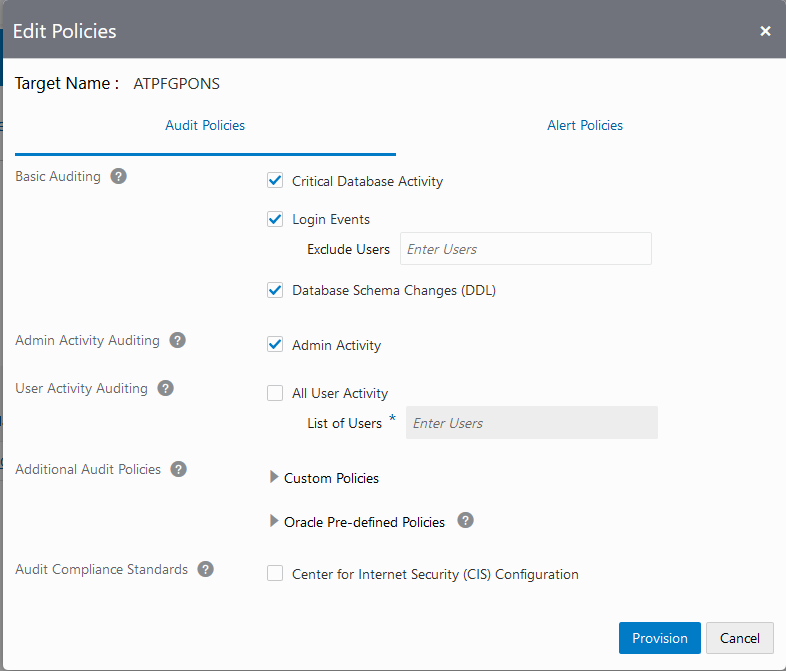
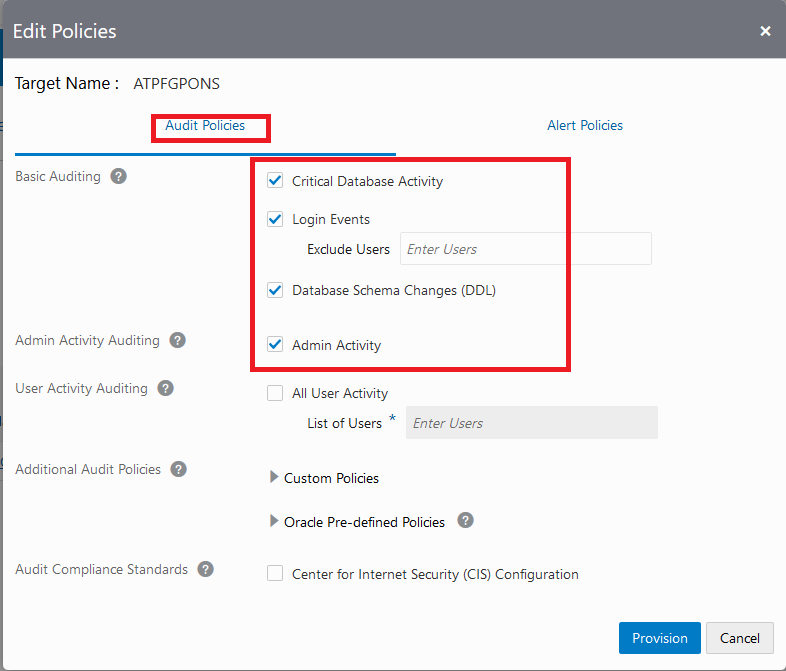
Lab3

Changed region(s): [[0.1832, 0.149, 0.7328, 0.5663]]

diff --git a/lab300/content.md b/lab300/content.md
@@ -20,6 +20,108 @@ To complete this lab, you need to have the following:
 * The ATP-S instance provisioned in Lab 1
 * The access privileges configured in Lab 2
 
+## STEP 1: Provision audit and alert policies on a target database by using the Activity Auditing wizard
+
+In the Oracle Data Safe Console, click the **Home** tab, and then click the **Activity Auditing** tab.
+
+![alt text](./images/img01.png " ")
+
+On the **Select Targets for Auditing** page, select the check box for your target database, and then click Continue.
+
+![alt text](./images/img02.png " ")
+
+On the **Retrieve Audit Policies** page, select the check box for your target database, and then click **Retrieve** to retrieve the audit policies for your database. Wait until a green check mark is displayed in the Retrieval Status column, and then click **Continue**.
+
+![alt text](./images/img03.png " ")
+
+The check mark means that all of the audit policies are successfully retrieved.
+
+![alt text](./images/img04.png " ")
+
+On the **Review and Provision Audit and Alert Policies** page, review the types of audit policies already enabled on your target database, and then click your target database name to provision more policies.
+
+The check marks under **Additional Policies** means that the Autonomous Transaction Processing (ATP) database has predefined audit policies enabled.
+
+Currently, there are no basic, admin activity, or user activity audit policies provisioned on your database, nor are there any alert policies.
+
+Click on the name of your database to open the Edit Policies dialog box.
+
+![alt text](./images/img05.png " ")
+
+On the **Audit Policies** tab in the Edit Policies dialog box, notice that the following Basic Auditing and Admin Activity Auditing policies are selected by default. Oracle recommends that you provision these policies. They are not provisioned by default.
+
+*	Critical Database Activity
+*	Login Events
+*	Database Schema Changes (DDL)
+*	Admin Activity
+
+![alt text](./images/img06.png " ")
+
+Expand Oracle Pre-defined Policies to view the list of Oracle predefined audit policies available on your ATP database. By default, the following policies are provisioned:
+
+![alt text](./images/img07.png " ")
+
+Provision additional policies
+
+![alt text](./images/img08.png " ")
+
+Notice that the Center for Internet Security (CIS) Configuration policy is not provisioned and enabled by default. Check to enable it, then click **Provision**.
+
+![alt text](./images/img09.png " ")
+
+You can click the **Alert Policies** tab to review the selected alert policies.
+
+![alt text](./images/img10.png " ")
+
+On the **Review and Provision Audit and Alert Policies** page, wait for check marks to appear under all audit policy types, except for All User Activity, and then click **Continue**.
+
+![alt text](./images/img11.png " ")
+
+On the **Start Audit Collection** page, notice the following defaults:
+
+*	The audit trail location is automatically set to UNIFIED_AUDIT_TRAIL
+*	Audit collection is not yet started.
+*	The auto purge feature is enabled.
+
+![alt text](./images/img12.png " ")
+
+Select your database and click **Start** to start collecting audit data.
+
+A message at the top of the page states the **UNIFIED_AUDIT_TRAIL** is successfully created.
+
+The Collection State column indicates that collection is **LOADING**, then **STARTING**, and then **COLLECTING**.
+
+![alt text](./images/img13.png " ")
+
+While the audit data is being collected, click **Done**.
+
+## STEP 3: Execute some account management activity on the database
+
+Using SQL Developer as user **ADMIN**, execute the following statements:
+
+````
+<copy>
+create user bob identified by "OraclePTS#2020";
+grant DWROLE to bob;
+drop user bob;
+</copy>
+````
+
+![alt text](./images/img14.png " ")
+
+## STEP 4: View audited activity in Data Safe
+
+Connect to the Data Safe console.
+
+Click on the **Reports** tab.
+
+In the **Auditing Activity** category on the left hand side, select the **All Activity** report.
+
+The user creation records are shown after one or two minutes:
+
+![alt text](./images/img15.png " ")
+
+Continue with Lab 4.
 
 ## Acknowledgements ##
 
